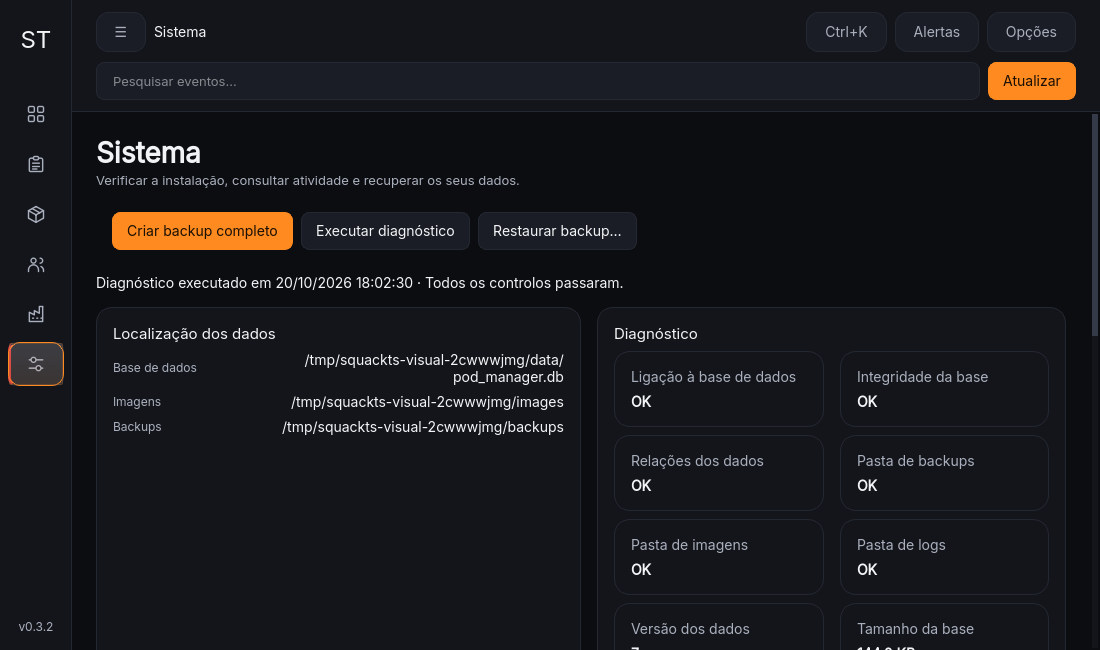
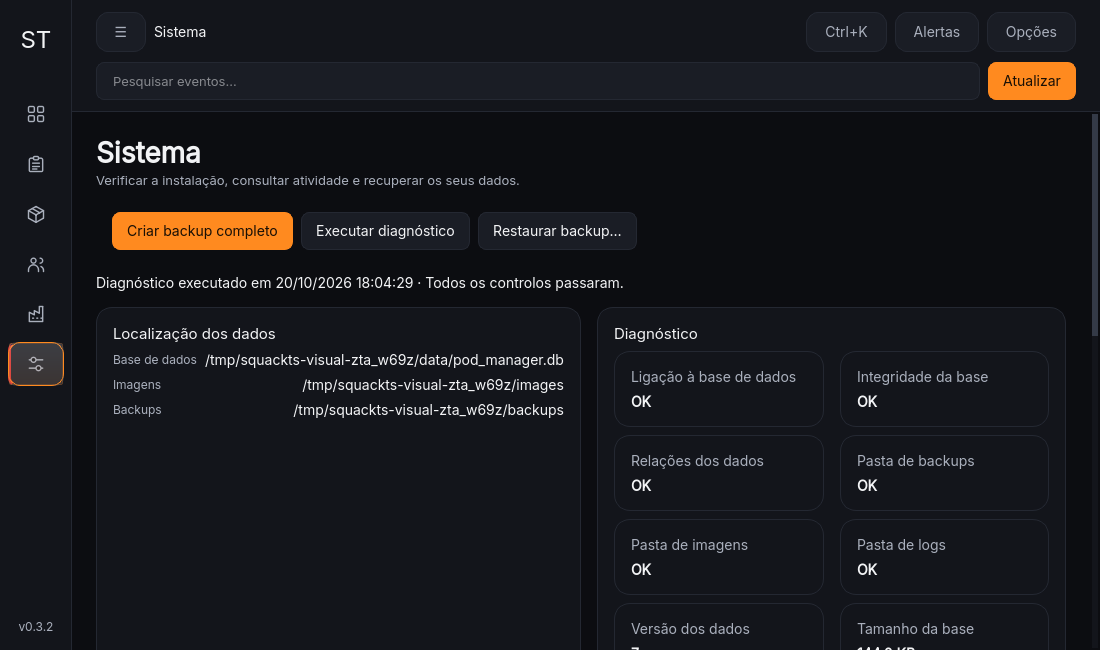
ui: apresentar datas e atividade em portugues

Changed region(s): [[0.0927, 0.5231, 0.5255, 0.6769], [0.34, 0.4308, 0.5564, 0.4615]]

diff --git a/ui/pages/orders_page.py b/ui/pages/orders_page.py
@@ -43,6 +43,7 @@ from ui.components import (
     show_toast,
 )
 from ui.dialogs import OrderEditorDialog
+from ui.formatting import display_action, display_date
 from ui.theme import SPACING
 from utils import format_currency
 
@@ -224,7 +225,7 @@ class OrdersPage(QWidget):
         self.detail.add_content_widget(PanelHeader(str(order["numero"]), str(order["client_nome"])))
         self.detail.add_content_widget(InfoRow("Estado", str(order["estado"]).replace("_", " ").capitalize()))
         self.detail.add_content_widget(InfoRow("Pagamento", "Pago" if int(order["pago"]) else "Pendente"))
-        self.detail.add_content_widget(InfoRow("Data prevista", str(order["data_prevista"]) or "Sem prazo"))
+        self.detail.add_content_widget(InfoRow("Data prevista", display_date(order["data_prevista"])))
         self.detail.add_content_widget(InfoRow("Notas", str(order["notas"]) or "—"))
         self.detail.add_content_widget(InfoRow("Tracking", str(order["tracking"] or "-")))
         self.detail.add_content_widget(InfoRow("Regra tracking", "Disponível desde pronta_envio"))
@@ -305,8 +306,8 @@ class OrdersPage(QWidget):
                 "Atividade",
                 [
                     (
-                        str(row["acao"]).replace("_", " ").capitalize(),
-                        f"{str(row['timestamp'])[:16].replace('T', ' ')} · {row['detalhe'] or ''}",
+                        display_action(row["acao"]),
+                        f"{display_date(row['timestamp'], time=True)} · {row['detalhe'] or ''}",
                     )
                     for row in history
                 ]

diff --git a/ui/formatting.py b/ui/formatting.py
@@ -1,0 +1,23 @@
+"""Portuguese presentation formats, without changing stored domain values."""
+from __future__ import annotations
+
+from datetime import datetime
+
+
+def display_date(value: object, *, time: bool = False, empty: str = "Sem prazo") -> str:
+    text = str(value or "").strip()
+    if not text:
+        return empty
+    try:
+        parsed = datetime.fromisoformat(text.replace("Z", "+00:00"))
+    except ValueError:
+        return text
+    return parsed.strftime("%d/%m/%Y %H:%M" if time else "%d/%m/%Y")
+
+
+def display_action(action: object) -> str:
+    key = str(action)
+    return {"create": "Criação", "update": "Atualização", "delete": "Remoção", "archive": "Arquivo",
+            "cancel": "Cancelamento", "refund": "Reembolso", "restore": "Restauro", "backup": "Cópia",
+            "transition": "Mudança de estado", "payment": "Pagamento", "paid": "Pagamento",
+            "adjust": "Ajuste", "artwork": "Arte", "quality": "Qualidade", "ship": "Expedição"}.get(key, key.replace("_", " ").capitalize())

diff --git a/ui/pages/production_page.py b/ui/pages/production_page.py
@@ -22,6 +22,7 @@ from ui.components import (
     Toolbar,
     show_toast,
 )
+from ui.formatting import display_date
 from ui.theme import SPACING
 
 
@@ -160,7 +161,7 @@ class ProductionPage(QWidget):
         self.detail.add_content_widget(PanelHeader(str(order["numero"]), str(order["client_nome"])))
         self.detail.add_content_widget(InfoRow("Âmbito das ações", "Toda a encomenda selecionada"))
         self.detail.add_content_widget(InfoRow("Estado", str(order["estado"]).replace("_", " ").capitalize()))
-        self.detail.add_content_widget(InfoRow("Data prevista", str(order.get("data_prevista", "")) or "Sem prazo"))
+        self.detail.add_content_widget(InfoRow("Data prevista", display_date(order.get("data_prevista"))))
         self.detail.add_content_widget(
             ActivityList(
                 "Itens",

diff --git a/ui/pages/dashboard_page.py b/ui/pages/dashboard_page.py
@@ -15,6 +15,7 @@ from ui.components import (
     SecondaryButton,
     clear_layout,
 )
+from ui.formatting import display_date
 from ui.theme import SPACING
 from utils import format_currency
 
@@ -113,7 +114,7 @@ class DashboardPage(QWidget):
                 str(row["estado"]).replace("_", " ").capitalize(),
                 "Pago" if int(row["pago"]) else "Pendente",
                 format_currency(row["total"]),
-                str(row["updated_at"])[:16].replace("T", " "),
+                display_date(row["updated_at"], time=True),
             ]
             for j, value in enumerate(values):
                 self.recent_table.setItem(i, j, QTableWidgetItem(value))

diff --git a/ui/pages/system_page.py b/ui/pages/system_page.py
@@ -31,6 +31,7 @@ from ui.components import (
     Toolbar,
     show_toast,
 )
+from ui.formatting import display_action, display_date
 from ui.theme import SPACING
 
 
@@ -203,8 +204,8 @@ class SystemPage(QWidget):
         rows = self.container.backup.list_recent_logs(limit=200)
         entries = [
             (
-                str(row["acao"]).replace("_", " ").capitalize(),
-                f"{str(row['timestamp'])[:16].replace('T', ' ')} · {row['detalhe'] or '—'}",
+                display_action(row["acao"]),
+                f"{display_date(row['timestamp'], time=True)} · {row['detalhe'] or '—'}",
             )
             for row in rows
         ]

diff --git a/docs/REDESENHO_UI.md b/docs/REDESENHO_UI.md
@@ -16,7 +16,7 @@ A interface passa a usar fundos neutros, ações laranja, detalhes vermelhos e I
 
 ## Evidência
 
-140 testes locais aprovados, Ruff aprovado e mypy sem erros em 76 ficheiros. Três regressões novas cobrem pesquisa/carregamento tardio, ordenação/seleção e recuperação do rascunho sem criar encomendas. Os testes de shell foram adaptados à paleta de comandos e às três opções de movimento; as regressões comerciais anteriores mantêm-se.
+140 testes locais aprovados, Ruff aprovado e mypy sem erros em 77 ficheiros. Três regressões novas cobrem pesquisa/carregamento tardio, ordenação/seleção e recuperação do rascunho sem criar encomendas. Os testes de shell foram adaptados à paleta de comandos e às três opções de movimento; as regressões comerciais anteriores mantêm-se.
 
 Capturas das seis páginas em `docs/screenshots/` (1440×900) e `docs/screenshots/1100x650/`. Ensaio adicional offscreen com escala Qt de 150%. `python -m scripts.capture_ui` recria capturas com dados fictícios num diretório temporário. A captura mostra a viewport inicial; tabelas e painéis continuam a permitir deslocação.
 
